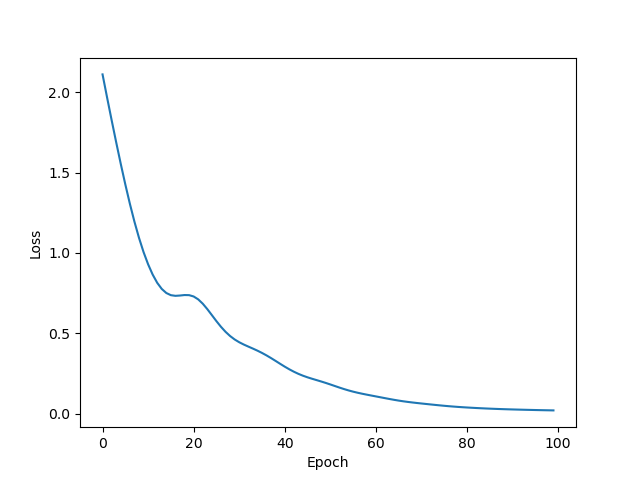
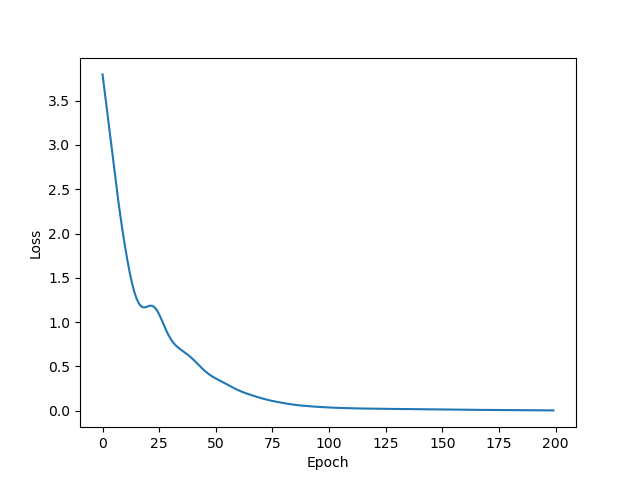
longer convergence for test experiment

diff --git a/new/NEODE_all.py b/new/NEODE_all.py
@@ -128,7 +128,7 @@ R_film0 = 0.5
 VR = 1.0
 
 t0 = 0.
-T = 100.
+T = 50.
 dt = 0.1
 
 # generate some data
@@ -141,7 +141,7 @@ del data_model
 model = ECOAT(L, Sigma, R_film0, VR=VR).to(device)
 optimizer = torch.optim.Adam(model.parameters(), lr = 5e-2)
 
-epochs = 100
+epochs = 200
 
 loss_v = np.zeros((epochs, ))
 
